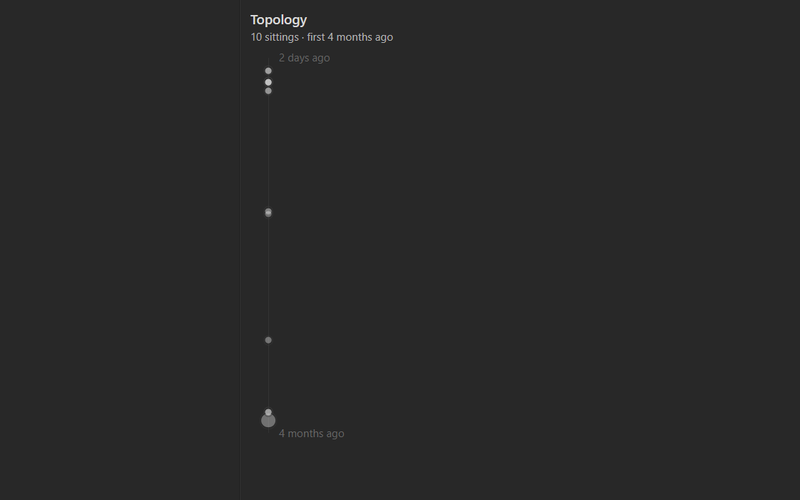
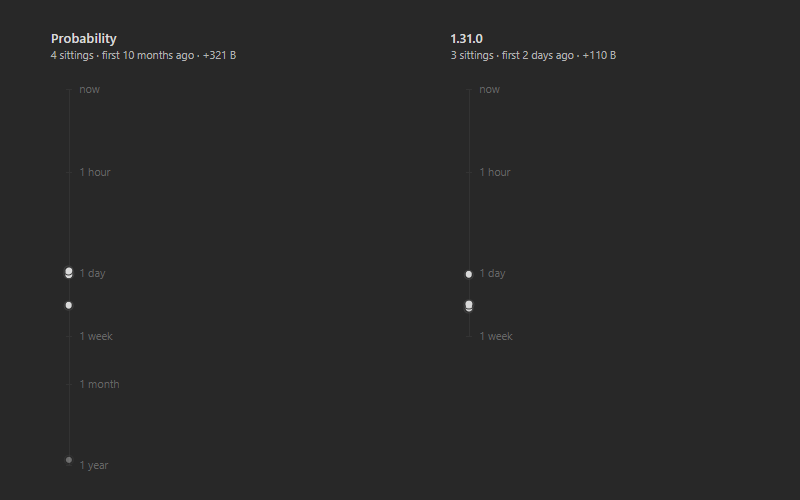
docs: the Time, Local graph and Pins cards, and the history card at the rail's real size
Captured from the demo vault, settings changed in memory only:

- Time: the same part of the graph at sharpness × 0.25, × 1 and × 6.
- Local graph: around Reinforcement Learning, measured against its own
  notes as a new install is, brightest 1.5, ages above titles, Obsidian's
  node size at 2.2 so the brightness reads at card size. Against the whole
  vault every neighbour sat between 0.13 and 0.29, because forty demo notes
  are one to three days old.
- Pins: three of the oldest notes (9 and 11 months) pinned in memory; the
  demo's own two pins are a day and three days old, which says nothing
  about overruling the clock. Spotlight and stars off.
- History: two notes on the one log axis the rail has used since #152; the
  card it replaces showed the rail before that axis, small in one corner.

diff --git a/docs/README.md b/docs/README.md
@@ -10,7 +10,7 @@ master toggle at the top of the settings, and off means nothing runs at all.
 <table>
   <tr>
     <td width="50%" valign="top">
-      <a href="time.md"><img src="assets/cards/time.png" width="100%" alt="A demo graph drawn at three sharpnesses, from most of the vault lit to only the newest notes bright."></a><br>
+      <a href="time.md"><img src="assets/cards/time.png" width="100%" alt="The same part of a demo graph three times, labelled × 0.25, × 1 and × 6. At × 0.25 most notes are lit; at × 6 only the newest few are, in green, and the rest have nearly gone."></a><br>
       <b><a href="time.md">Time</a></b><br>
       What counts as old, and how an age becomes a brightness. The number everything else reads.
     </td>
@@ -27,14 +27,14 @@ master toggle at the top of the settings, and off means nothing runs at all.
       Taking notes out of the graph rather than dimming them, with a scrubber in the graph's own panel.
     </td>
     <td width="50%" valign="top">
-      <a href="local-graph.md"><img src="assets/cards/local-graph.png" width="100%" alt="A local graph around one note, its neighbours drawn at different brightnesses with their ages written above them."></a><br>
+      <a href="local-graph.md"><img src="assets/cards/local-graph.png" width="100%" alt="A local graph around a note called Reinforcement Learning, with its age, 2 weeks ago, above its title. Its neighbours from the last week are drawn brighter than the ones from four and five months ago, and the newest, 5 days ago, is green."></a><br>
       <b><a href="local-graph.md">The local graph</a></b><br>
       The panel around one note, measured against its own notes, or from the note in the middle.
     </td>
   </tr>
   <tr>
     <td width="50%" valign="top">
-      <a href="pins.md"><img src="assets/cards/pins.png" width="100%" alt="A graph in which a few old notes are drawn in purple at full strength among faded ones."></a><br>
+      <a href="pins.md"><img src="assets/cards/pins.png" width="100%" alt="Part of a graph with ages above the titles. Three notes from 9 and 11 months ago are pinned and drawn in purple at full strength, while notes from the last few weeks around them are faded."></a><br>
       <b><a href="pins.md">Pins</a></b><br>
       Notes you hold bright whatever their dates say. The one place you overrule the clock.
     </td>
@@ -51,7 +51,7 @@ master toggle at the top of the settings, and off means nothing runs at all.
       Text takes a colour as you type it and cools back to normal.
     </td>
     <td width="50%" valign="top">
-      <a href="beads.md"><img src="assets/cards/history.png" width="100%" alt="A vertical rail with beads along it, labelled 2 days ago at the top and 4 months ago at the bottom."></a><br>
+      <a href="beads.md"><img src="assets/cards/history.png" width="100%" alt="Two notes’ histories side by side, each a rail marked now, 1 hour, 1 day, 1 week, 1 month and 1 year, with a bead for every sitting. One note was worked on ten months ago and again this week; the other only in the last two days, so its rail stops at a week."></a><br>
       <b><a href="beads.md">A note's history</a></b><br>
       Each sitting on a note as a bead down the sidebar, from Pulsar's own <a href="history.md">edit history</a>.
     </td>

diff --git a/README.md b/README.md
@@ -74,7 +74,7 @@ being read in order.
 <table>
   <tr>
     <td width="50%" valign="top">
-      <a href="docs/time.md"><img src="docs/assets/cards/time.png" width="100%" alt="A demo graph drawn at three sharpnesses, from most of the vault lit to only the newest notes bright."></a><br>
+      <a href="docs/time.md"><img src="docs/assets/cards/time.png" width="100%" alt="The same part of a demo graph three times, labelled × 0.25, × 1 and × 6. At × 0.25 most notes are lit; at × 6 only the newest few are, in green, and the rest have nearly gone."></a><br>
       <b><a href="docs/time.md">Time</a></b><br>
       What counts as old, and how an age becomes a brightness. The number everything else reads.
     </td>
@@ -91,14 +91,14 @@ being read in order.
       Taking notes out of the graph rather than dimming them, with a scrubber in the graph's own panel.
     </td>
     <td width="50%" valign="top">
-      <a href="docs/local-graph.md"><img src="docs/assets/cards/local-graph.png" width="100%" alt="A local graph around one note, its neighbours drawn at different brightnesses with their ages written above them."></a><br>
+      <a href="docs/local-graph.md"><img src="docs/assets/cards/local-graph.png" width="100%" alt="A local graph around a note called Reinforcement Learning, with its age, 2 weeks ago, above its title. Its neighbours from the last week are drawn brighter than the ones from four and five months ago, and the newest, 5 days ago, is green."></a><br>
       <b><a href="docs/local-graph.md">The local graph</a></b><br>
       The panel around one note, measured against its own notes, or from the note in the middle.
     </td>
   </tr>
   <tr>
     <td width="50%" valign="top">
-      <a href="docs/pins.md"><img src="docs/assets/cards/pins.png" width="100%" alt="A graph in which a few old notes are drawn in purple at full strength among faded ones."></a><br>
+      <a href="docs/pins.md"><img src="docs/assets/cards/pins.png" width="100%" alt="Part of a graph with ages above the titles. Three notes from 9 and 11 months ago are pinned and drawn in purple at full strength, while notes from the last few weeks around them are faded."></a><br>
       <b><a href="docs/pins.md">Pins</a></b><br>
       Notes you hold bright whatever their dates say. The one place you overrule the clock.
     </td>
@@ -115,7 +115,7 @@ being read in order.
       Text takes a colour as you type it and cools back to normal.
     </td>
     <td width="50%" valign="top">
-      <a href="docs/beads.md"><img src="docs/assets/cards/history.png" width="100%" alt="A vertical rail with beads along it, labelled 2 days ago at the top and 4 months ago at the bottom."></a><br>
+      <a href="docs/beads.md"><img src="docs/assets/cards/history.png" width="100%" alt="Two notes’ histories side by side, each a rail marked now, 1 hour, 1 day, 1 week, 1 month and 1 year, with a bead for every sitting. One note was worked on ten months ago and again this week; the other only in the last two days, so its rail stops at a week."></a><br>
       <b><a href="docs/beads.md">A note's history</a></b><br>
       Each sitting on a note as a bead down the sidebar, from Pulsar's own <a href="docs/history.md">edit history</a>.
     </td>
